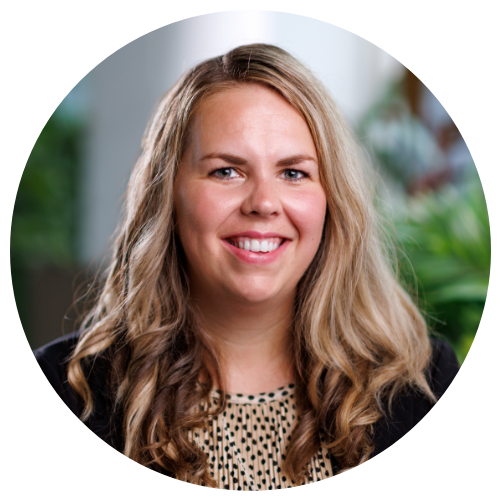
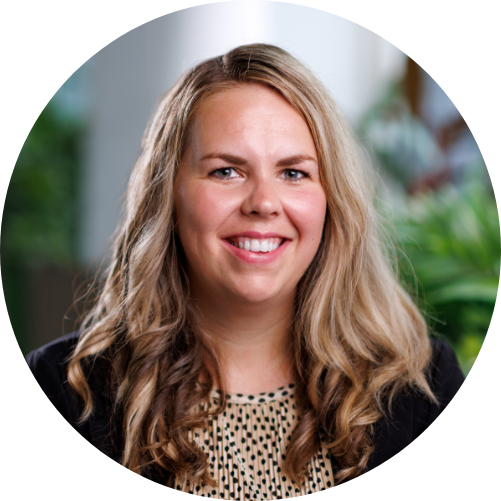
fox

Changed region(s): [[0.0, 0.0, 1.0, 1.0]]

diff --git a/index.html b/index.html
@@ -33,18 +33,18 @@
 
 			<table class="row" width="525" border="0" align="center" cellpadding="0" cellspacing="0" style="width:525px;max-width:525px;">
 				<tr>
-					<td  align="center" valign="top" bgcolor="#FFFFFF" style="background-color:#E41B23;background-image: url('images/bg.png'); background-size: 100px;background-position: bottom right;background-repeat: no-repeat;">
+					<td  align="center" valign="top" bgcolor="#FFFFFF" style="border: 1px solid #707070;background-color:#E41B23;background-image: url('images/bg.png'); background-size: 126px;background-position: bottom -60px right -5px;background-repeat: no-repeat;">
 
-						<table class="row" width="100%" border="0" align="center" cellpadding="0" cellspacing="0" style="width:100%;max-width:100%;padding-left: 31px;padding-right: 31px;padding-top: 30px;">
+						<table class="row" width="100%" border="0" align="center" cellpadding="0" cellspacing="0" style="width:100%;max-width:100%;padding-left: 28px;padding-right: 28px;padding-top: 26px;">
 
 							
 							<tr>
 								<td class="containerPadding" align="left" valign="top" style="font-size:0;padding:0">
 
-									<div class="row" style="display:inline-block;max-width:147px;vertical-align:middle;width:100%">
+									<div class="row" style="display:inline-block;max-width:155px;vertical-align:middle;width:100%">
 										<table class="row" border="0" align="left" cellpadding="0" cellspacing="0">
 											<tr>
-												<td class="imgResponsive" align="right" valign="middle" style="padding:0;">			<img mc:edit mc:hideable src="images/photo.png" alt="#" border="0" width="147" style="display:block;border:0;width:100%;max-width:147px;border-radius: 50%;">
+												<td class="imgResponsive" align="right" valign="middle" style="padding:0;">			<img mc:edit mc:hideable src="images/photo.png" alt="#" border="4" width="155" style="display:block;border:0;width:100%;max-width:155px;border-radius: 50%;border: 4px solid #fff;box-sizing: border-box;margin-top:-23px;">
 												</td> 
 											</tr>
 										</table>
@@ -74,7 +74,7 @@
 
 											<tr>
 												
-												<td mc:hideable mc:edit class="Headlines centerText" align="left" valign="middle" style="font-family:'Museo',sans-serif;color:#000;font-size:22px;line-height:1;font-weight:700;letter-spacing:0px;padding:0;padding-bottom:10px;">
+												<td mc:hideable mc:edit class="Headlines centerText" align="left" valign="middle" style="font-family:'Museo',sans-serif;color:#000;font-size:22px;line-height:1.1;font-weight:700;letter-spacing:0px;padding:0;padding-bottom:7px;">
 													Marketing Manager
 												</td>
 											</tr>
@@ -84,7 +84,7 @@
 													<div class="row" style="display:inline-block;max-width:290px;vertical-align:top;width:100%;padding-top:0px;">
 														<table class="row" border="0" align="left" cellpadding="0" cellspacing="0">
 															<tr>
-																<td width="20" valign="middle" align="center" style="padding:0;padding-bottom:5px;padding-right:6.6px">
+																<td width="20" valign="middle" align="center" style="padding:0;padding-bottom:2px;padding-right:5px">
 																	<a href="tel:06-40711788" style="text-decoration:none;border:0;display:block;">
 																		<img mc:edit mc:hideable src="images/Mobiel icon.png" alt="#" border="0" height="18" style="display:block;border:0;height:18px;">
 																	</a>
@@ -94,7 +94,7 @@
 																	<table class="row" border="0" align="left" cellpadding="0" cellspacing="0">
 																		<tr>
 																			
-																			<td mc:hideable mc:edit class="Paragraphs" align="left" valign="middle" style="font-family:'Museo', sans-serif;color:#fff;font-size:19px;font-weight:300;padding:0;padding-bottom:5px;">
+																			<td mc:hideable mc:edit class="Paragraphs" align="left" valign="middle" style="font-family:'Museo', sans-serif;color:#fff;font-size:16px;font-weight:300;padding:0;padding-bottom:2px;">
 																				<a href="tel:06-40711788" style="text-decoration:none;border:0;display:block;color:#fff;">
 																					06-40711788
 																			</a>
@@ -113,7 +113,7 @@
 													<div class="row" style="display:inline-block;max-width:290px;vertical-align:top;width:100%;padding-top:0px;">
 														<table class="row" border="0" align="left" cellpadding="0" cellspacing="0">
 															<tr>
-																<td width="20" valign="middle" align="center" style="padding:0;padding-bottom:5px;padding-right:6.6px">
+																<td width="20" valign="middle" align="center" style="padding:0;padding-bottom:2px;padding-right:5px">
 																	<a href="mailto:Joy@joinuz.nl" style="text-decoration:none;border:0;display:block;">
 																		<img mc:edit mc:hideable src="images/Envelop icon.png" alt="#" border="0" height="16" style="display:block;border:0;height:16px;">
 																	</a>
@@ -123,7 +123,7 @@
 																	<table class="row" border="0" align="left" cellpadding="0" cellspacing="0">
 																		<tr>
 																			
-																			<td mc:hideable mc:edit class="Paragraphs" align="left" valign="middle" style="font-family:'Museo', sans-serif;color:#fff;font-size:19px;font-weight:300;padding:0;padding-bottom:5px;">
+																			<td mc:hideable mc:edit class="Paragraphs" align="left" valign="middle" style="font-family:'Museo', sans-serif;color:#fff;font-size:16px;font-weight:300;padding:0;padding-bottom:2px;">
 																				<a href="mailto:Joy@joinuz.nl" style="text-decoration:none;border:0;display:block;color:#fff;">
 																					Joy@joinuz.nl
 																			</a>
@@ -139,10 +139,10 @@
 
 											<tr>
 												<td>
-													<div class="row" style="display:inline-block;max-width:290px;vertical-align:top;width:100%;padding-top:0px;padding-bottom:10px;">
+													<div class="row" style="display:inline-block;max-width:290px;vertical-align:top;width:100%;padding-top:0px;padding-bottom:4px;">
 														<table class="row" border="0" align="left" cellpadding="0" cellspacing="0">
 															<tr>
-																<td width="20" valign="middle" align="center" style="padding:0;padding-bottom:3px;padding-right:6.6px">
+																<td width="20" valign="middle" align="center" style="padding:0;padding-bottom:3px;padding-right:5px">
 																	<a href="https://joinuz.nl" style="text-decoration:none;border:0;display:block;">
 																		<img mc:edit mc:hideable src="images/website.png" alt="#" border="0" height="16" style="display:block;border:0;height:16px;">
 																	</a>
@@ -151,7 +151,7 @@
 																<td valign="top" align="left">
 																	<table class="row" border="0" align="left" cellpadding="0" cellspacing="0">
 																		<tr>
-																			<td mc:hideable mc:edit class="Paragraphs" align="left" valign="middle" style="font-family:'Museo', sans-serif;color:#fff;font-size:19px;font-weight:300;padding:0;padding-bottom:5px;">
+																			<td mc:hideable mc:edit class="Paragraphs" align="left" valign="middle" style="font-family:'Museo', sans-serif;color:#fff;font-size:16px;font-weight:300;padding:0;padding-bottom:5px;">
 																				<a href="https://joinuz.nl" style="text-decoration:none;border:0;display:block;color:#fff;">
 																				joinuz.nl
 																			</a>
@@ -170,17 +170,17 @@
 													<div class="row" style="display:inline-block;max-width:290px;vertical-align:top;width:100%;padding-top:0px;padding-bottom:10px;">
 														<table class="row" border="0" align="left" cellpadding="0" cellspacing="0" style="max-width:130px !important;">
 															<tr>
-																<td width="20" valign="middle" align="center" style="padding:0;padding-bottom:3px;padding-right:6.6px">
+																<td width="20" valign="middle" align="center" style="padding:0;padding-bottom:3px;padding-right:8px">
 																	<a href="https://joinuz.nl" style="text-decoration:none;border:0;display:block;background-color:#fff;width: 24px;height: 24px;border-radius:5px;padding-top: 4px;padding-bottom: 4px;box-sizing: border-box;">
 																		<img mc:edit mc:hideable src="images/whatsapp.png" alt="#" border="0" height="16" style="display:block;border:0;height:16px;">
 																	</a>
 																</td>
-																<td width="20" valign="middle" align="center" style="padding:0;padding-bottom:3px;padding-right:6.6px">
+																<td width="20" valign="middle" align="center" style="padding:0;padding-bottom:3px;padding-right:8px">
 																	<a href="https://www.linkedin.com/company/joinuz/" style="text-decoration:none;border:0;display:block;background-color:#fff;width: 24px;height: 24px;border-radius:5px;padding-top: 5px;padding-bottom: 5px;box-sizing: border-box;">
 																		<img mc:edit mc:hideable src="images/linkedin.png" alt="#" border="0" height="13" style="display:block;border:0;height:13px;">
 																	</a>
 																</td>
-																<td width="20" valign="middle" align="center" style="padding:0;padding-bottom:3px;padding-right:6.6px">
+																<td width="20" valign="middle" align="center" style="padding:0;padding-bottom:3px;padding-right:8px">
 																	<a href="https://joinuz.nl" style="text-decoration:none;border:0;display:block;background-color:#fff;width: 24px;height: 24px;border-radius:5px;padding-top: 5px;padding-bottom: 5px;box-sizing: border-box;">
 																		<img mc:edit mc:hideable src="images/inst.png" alt="#" border="0" height="14" style="display:block;border:0;height:14px;">
 																	</a>
@@ -207,9 +207,7 @@
 
 								</td>
 							</tr>
-							<tr>
-								<td height="30" align="center" valign="top" style="font-size:30px;line-height:30px;">&nbsp;</td>
-							</tr>
+						
 						</table>
 					</td>
 				</tr>
